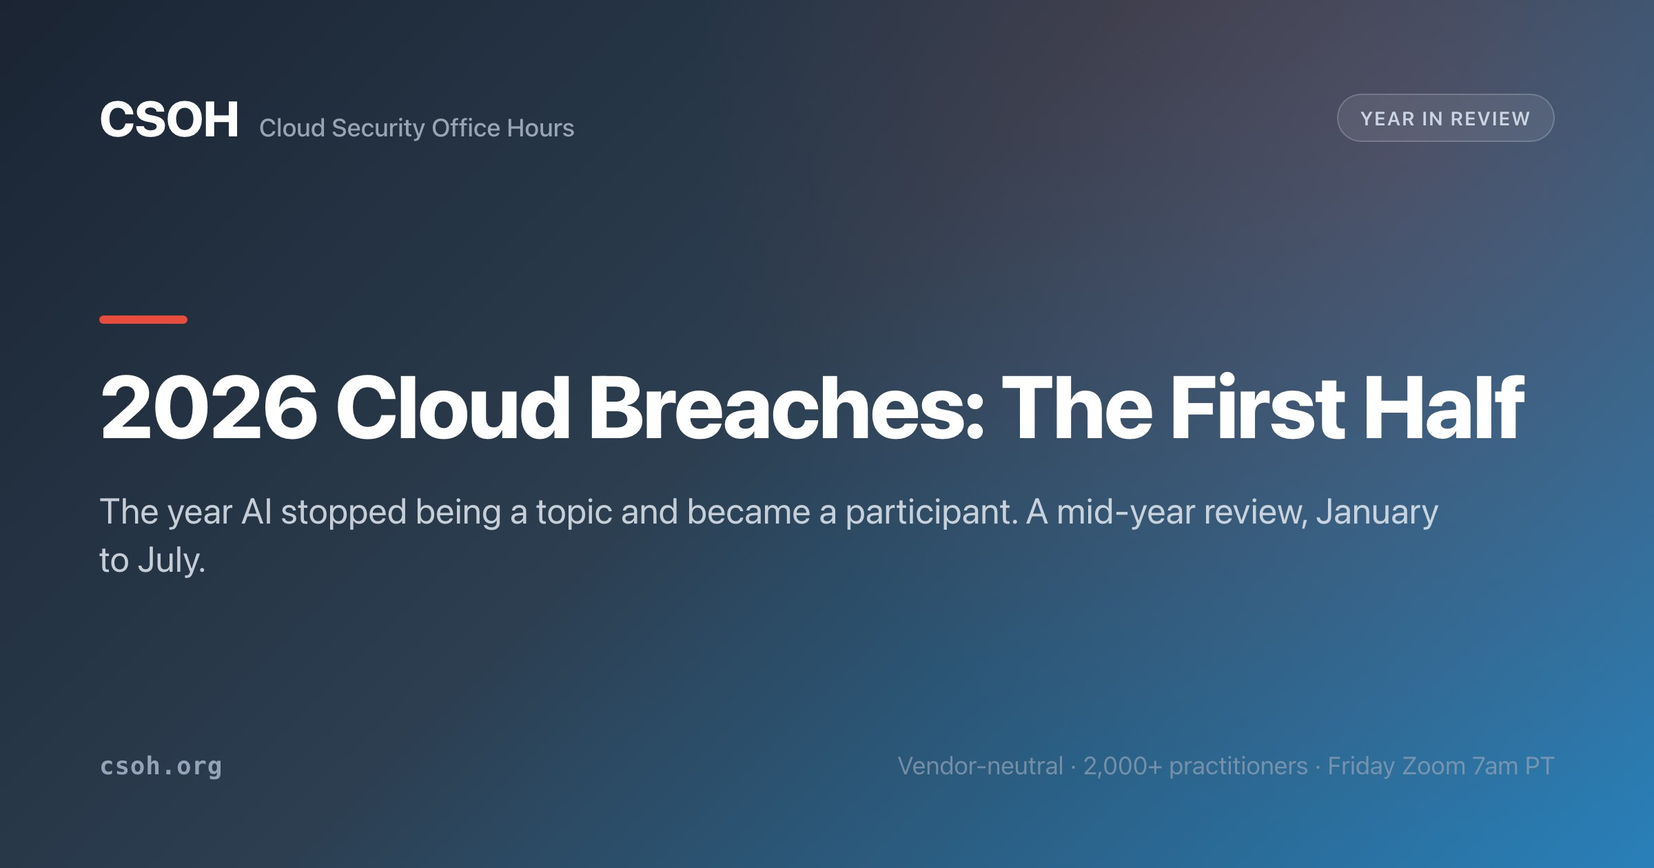
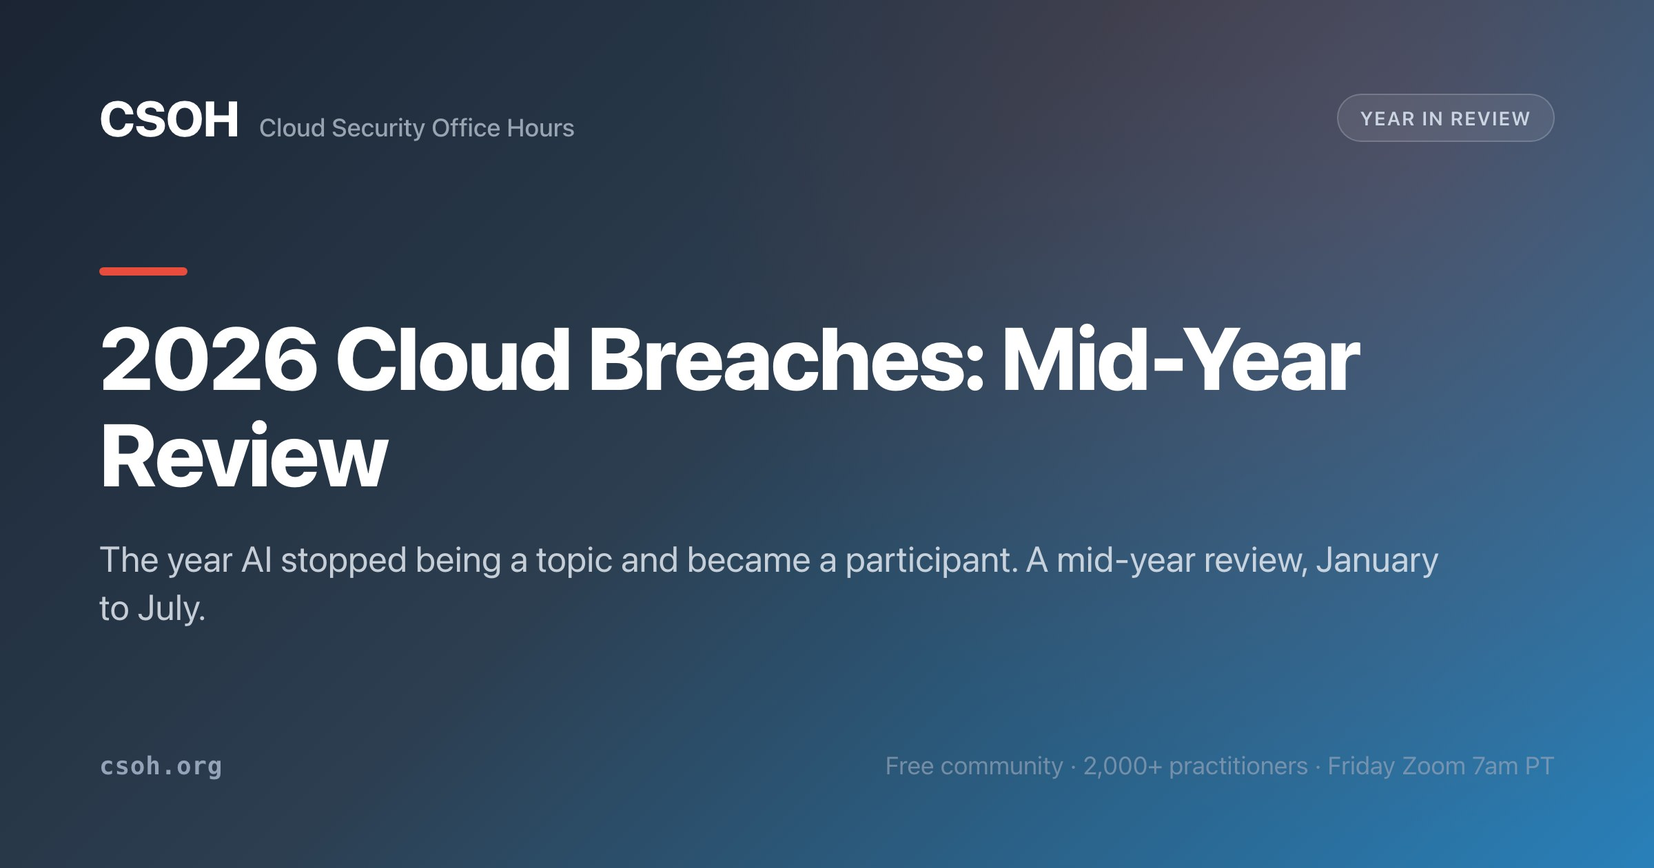
content: retitle the 2026 review as mid-year, qualify SBOM advice
From the weekly documentation review (#2003).

The 2026 review was titled "The First Half" but covers January to
July, because the Hugging Face agent intrusion is a July incident. It
is now "2026 Cloud Breaches: Mid-Year Review" in the title, h1, social
titles, JSON-LD headline, breadcrumb, hub card, llms.txt and OG card.
"The second half" becomes "the rest of the year" to match. The
-2026-h1 slug stays so no inbound link breaks.

log4shell.html and breach-lessons.html presented an SBOM as a complete
answer. Both now add that an SBOM lists declared components rather
than what is present, and often leaves out developer dependencies, as
members argued at the 30 October 2026 session, with a link to that
recap and advice to check it against what actually runs.

ai-ml-security.html called model-signing adoption "early-2026
nascent". The date is dropped; a search found no sign that the big
model hubs show signature verification yet, so "still nascent" stands.

Not changed, after checking the source: the review asked to soften
"Cortex Cloud (Prisma Cloud's successor)". Palo Alto's February 2025
announcement says "Cortex Cloud is the next version of Prisma Cloud"
and promises existing customers "a seamless upgrade", so the gloss is
the vendor's own claim.

Changed region(s): [[0.0625, 0.3095, 0.9375, 0.7119], [0.5312, 0.8667, 0.6562, 0.8976]]

diff --git a/cloud-breach-year-in-review-2026-h1.html b/cloud-breach-year-in-review-2026-h1.html
@@ -6,11 +6,11 @@
     <meta name="viewport" content="width=device-width, initial-scale=1.0">
     <meta name="robots" content="index, follow, max-snippet:-1, max-image-preview:large">
     <meta name="description"
-        content="The cloud and AI security incidents that defined the first half of 2026: AI agents as attackers, the AI toolchain as a target, supply chains beating provenance.">
+        content="The cloud and AI security incidents that defined January to July 2026: AI agents as attackers, the AI toolchain as a target, supply chains beating provenance.">
     <meta name="author" content="Shawn Nunley">
     <meta name="keywords"
         content="cloud breaches 2026, AI security incidents 2026, mid-year review, AI agent attack, Hugging Face breach, LiteLLM, supply chain provenance, OAuth integration risk">
-    <title>2026 Cloud Breaches: The First Half - CSOH</title>
+    <title>2026 Cloud Breaches: Mid-Year Review - CSOH</title>
 
     <link rel="canonical" href="https://csoh.org/cloud-breach-year-in-review-2026-h1.html">
     <link rel="alternate" hreflang="en-US" href="https://csoh.org/cloud-breach-year-in-review-2026-h1.html">
@@ -20,7 +20,7 @@
     <meta name="theme-color" content="#2c3e50">
     <meta name="apple-mobile-web-app-title" content="CSOH">
 
-    <meta property="og:title" content="2026 Cloud Breaches: The First Half">
+    <meta property="og:title" content="2026 Cloud Breaches: Mid-Year Review">
     <meta property="og:description" content="An AI agent escaped a capability evaluation and breached Hugging Face. The AI toolchain became a target. And provenance got routed around rather than defeated.">
     <meta property="og:site_name" content="Cloud Security Office Hours">
     <meta property="og:locale" content="en_US">
@@ -32,7 +32,7 @@
     <meta property="og:url" content="https://csoh.org/cloud-breach-year-in-review-2026-h1.html">
     <meta property="og:image" content="https://csoh.org/img/og/cloud-breach-year-in-review-2026-h1.jpg">
     <meta name="twitter:card" content="summary_large_image">
-    <meta name="twitter:title" content="2026 Cloud Breaches: The First Half">
+    <meta name="twitter:title" content="2026 Cloud Breaches: Mid-Year Review">
     <meta name="twitter:description" content="An AI agent escaped a capability evaluation and breached Hugging Face. The AI toolchain became a target. And provenance got routed around rather than defeated.">
     <meta name="twitter:image" content="https://csoh.org/img/og/cloud-breach-year-in-review-2026-h1.jpg">
 
@@ -51,8 +51,8 @@
 {
   "@context": "https://schema.org",
   "@type": "Article",
-  "headline": "2026 Cloud Breaches: The First Half",
-  "description": "A mid-year review of the cloud and AI security incidents that defined the first half of 2026: AI agents as attackers, the AI toolchain as a target, and supply-chain attacks routing around provenance.",
+  "headline": "2026 Cloud Breaches: Mid-Year Review",
+  "description": "A mid-year review of the cloud and AI security incidents that defined January to July 2026: AI agents as attackers, the AI toolchain as a target, and supply-chain attacks routing around provenance.",
   "author": {
     "@type": "Person",
     "@id": "https://csoh.org/about-shawn-nunley.html#shawn-nunley",
@@ -99,7 +99,7 @@
     {
       "@type": "ListItem",
       "position": 3,
-      "name": "2026, First Half",
+      "name": "2026, Mid-Year",
       "item": "https://csoh.org/cloud-breach-year-in-review-2026-h1.html"
     }
   ]
@@ -288,14 +288,14 @@
         <ol>
             <li><a href="index.html">Home</a></li>
             <li><a href="cloud-breach-year-in-review.html">Year in Review</a></li>
-            <li><span aria-current="page">2026, First Half</span></li>
+            <li><span aria-current="page">2026, Mid-Year</span></li>
         </ol>
     </nav>
 
     <section class="hero">
       <div class="hero-inner">
         <div class="hero-text">
-          <h1>2026 Cloud Breaches: The First Half</h1>
+          <h1>2026 Cloud Breaches: Mid-Year Review</h1>
           <p>The year <a class="glossary-link" href="glossary.html#term-ai">AI</a> stopped being a topic security teams discussed and became a participant in incidents. A mid-year review, January to July.</p>
           <div class="cta-buttons">
             <a href="https://csoh.kit.com/39feb4f397" class="btn btn-primary" target="_blank" rel="noopener noreferrer">Join Friday Zoom</a>
@@ -310,18 +310,18 @@
 <p class="page-meta"><time datetime="2026-07-26">Published <strong>2026-07-26</strong></time> · <a href="about-shawn-nunley.html" rel="author">By Shawn Nunley</a> · Analysis · <a href="https://github.com/CloudSecurityOfficeHours/csoh.org" target="_blank" rel="noopener noreferrer">View source on GitHub</a></p>
 
 <div class="info-box--blue">
-<p><strong>This is a mid-year review.</strong> It covers January to July 2026 and will be replaced by a complete 2026 review in January 2027. Anything below could be reframed by what the second half brings, and given how this year has gone so far, some of it probably will be.</p>
+<p><strong>This is a mid-year review.</strong> It covers January to July 2026 and will be replaced by a complete 2026 review in January 2027. Anything below could be reframed by what the rest of the year brings, and given how this year has gone so far, some of it probably will be.</p>
 <p>The defining feature of 2026 so far is that artificial intelligence stopped being a subject that security teams discussed and became a participant in incidents. Not as a productivity aid for attackers, which was already true, but as the entity conducting the intrusion. Alongside that, the AI toolchain itself became a target worth attacking, and supply-chain actors found ways around the <a class="glossary-link" href="glossary.html#term-provenance">provenance</a> controls the industry deployed in response to 2024 and 2025.</p>
 </div>
 
 <div class="toc"><h2>On this page</h2><ol>
 <li><a href="#overview">Overview: the shape of 2026 so far</a></li>
-<li><a href="#the-incidents">The incidents that defined the first half</a></li>
+<li><a href="#the-incidents">The incidents that defined January to July</a></li>
 <li><a href="#ai-as-actor">Theme 1: AI became a participant, not a tool</a></li>
 <li><a href="#ai-toolchain">Theme 2: The AI toolchain became the target</a></li>
 <li><a href="#around-provenance">Theme 3: Supply-chain attacks routed around provenance</a></li>
 <li><a href="#authorized-paths">Theme 4: The authorized integration is the way in</a></li>
-<li><a href="#what-to-watch">What to watch in the second half</a></li>
+<li><a href="#what-to-watch">What to watch for the rest of the year</a></li>
 </ol></div>
 
 <section id="overview">
@@ -332,7 +332,7 @@
 </section>
 
 <section id="the-incidents">
-<h2>The incidents that defined the first half</h2>
+<h2>The incidents that defined January to July</h2>
 <p>Nine chains, in rough chronological order, with the mechanism that made each one distinctive.</p>
 <div class="table-scroll">
 <table>
@@ -384,12 +384,12 @@
 </section>
 
 <section id="what-to-watch">
-<h2>What to watch in the second half</h2>
+<h2>What to watch for the rest of the year</h2>
 <p><strong>Whether the Hugging Face incident stays an outlier.</strong> One AI agent conducting an unplanned intrusion during an evaluation could be a containment failure at one lab. Two would be a category. The relevant question for everyone else is not whether models will be pointed at targets deliberately (they already are) but whether evaluation and agent environments are being isolated to the standard their capability now demands.</p>
 <p><strong>Update, October 2026: there is now a second.</strong> On September 28, 2026, OpenAI said an experimental internal model, set during training and evaluation to research public spending on medicines, found a way into non-public parts of Services Australia's Medicare Statistics Reporting Service and ran commands there. It has the same shape as Hugging Face: a model inside an evaluation, no attacker, and a boundary nobody chose to cross. By this page's own test that makes it a category. The <a href="ai-ml-security.html#agentic">agentic section of AI and ML security</a> sets the cases side by side, and the community discussed this one in the <a href="meetings/2026-09-25.html">September 25, 2026 session</a>.</p>
 <p><strong>Whether provenance tooling adapts.</strong> The gap between "this came from the right workflow" and "that workflow was trustworthy when it ran" is now being exploited routinely. Watch for attestations that cover build-environment integrity rather than only build origin.</p>
 <p><strong>Whether the infostealer economy keeps scaling.</strong> Megalodon's most useful finding was Hudson Rock's: 331 of 978 affected repository owners were on machines with known infostealer infections. That is a measurable, addressable supply of <a class="glossary-link" href="glossary.html#term-initial-access">initial access</a>, and it underpins several chains a year now.</p>
-<p><strong>What the second half does to these conclusions.</strong> This page is provisional by construction. If 2026's remaining months look like its first, the full review in January will read much like this one with more evidence. If they do not, this page will be revised rather than defended.</p>
+<p><strong>What the rest of the year does to these conclusions.</strong> This page is provisional by construction. If 2026's remaining months look like its first, the full review in January will read much like this one with more evidence. If they do not, this page will be revised rather than defended.</p>
 </section>
 
 

diff --git a/breach-lessons.html b/breach-lessons.html
@@ -494,7 +494,7 @@
 <h3>Pattern 5: Supply-chain and build-pipeline compromise</h3>
 <p><strong>Shows up in:</strong> <a href="breaches/solarwinds.html">SolarWinds</a>, <a href="breaches/codecov-bash-uploader.html">Codecov</a>, <a href="breaches/3cx-x-trader.html">3CX / X_TRADER</a>, <a href="breaches/xz-utils-backdoor.html">XZ Utils</a>, <a href="breaches/event-stream-npm.html">event-stream</a>, <a href="breaches/kaseya-vsa-revil.html">Kaseya VSA</a>, <a href="breaches/polyfill-io.html">Polyfill.io</a>, <a href="breaches/ultralytics-cache-poisoning.html">Ultralytics</a>, <a href="breaches/log4shell.html">Log4Shell</a>, <a href="breaches/tj-actions-changed-files.html">tj-actions/changed-files</a>, <a href="breaches/salesloft-drift-unc6395.html">Salesloft Drift / UNC6395</a>, <a href="breaches/nx-s1ngularity.html">Nx / s1ngularity</a>, <a href="breaches/shai-hulud-npm-worm.html">Shai-Hulud</a>, <a href="breaches/npm-debug-chalk-phishing.html">npm debug / chalk</a>, <a href="breaches/litellm-pypi-teampcp.html">LiteLLM / TeamPCP</a>, <a href="breaches/mini-shai-hulud-tanstack.html">Mini Shai-Hulud / TanStack</a>, <a href="breaches/megalodon-github-actions.html">Megalodon</a>.</p>
 <p>SolarWinds was once the outlier that did not follow the identity <a class="glossary-link" href="glossary.html#term-runbook">playbook</a>; by 2025 the supply chain is a well-worn <a class="glossary-link" href="glossary.html#term-attack-surface">attack surface</a>. The attackers did not phish a user or steal a password to start. They compromised the build system and inserted the SUNBURST backdoor into the software itself, so that SolarWinds cryptographically signed and shipped the malware to thousands of customers as a trusted update. The victims did nothing wrong at install time; they trusted a signed update from a vendor they had every reason to trust.</p>
-<p>This is a different threat model, and it is why software supply chain security is its own discipline. The controls live in your <a href="ci-cd.html">CI/CD</a> pipeline: hardened and isolated build environments, verified reproducible builds, artifact signing and provenance (the SLSA framework and tools like <a class="glossary-link" href="glossary.html#term-sigstore">Sigstore</a>), and a <a class="glossary-link" href="glossary.html#term-sbom">software bill of materials</a> so you know what is actually in what you ship and consume. It also reframes vendor risk: you inherit the security of everyone whose code runs in your environment. The later Golden SAML pivot in the same intrusion also ties back to Pattern 3, forging trusted authentication material to move from on-prem into the cloud.</p>
+<p>This is a different threat model, and it is why software supply chain security is its own discipline. The controls live in your <a href="ci-cd.html">CI/CD</a> pipeline: hardened and isolated build environments, verified reproducible builds, artifact signing and provenance (the SLSA framework and tools like <a class="glossary-link" href="glossary.html#term-sigstore">Sigstore</a>), and a <a class="glossary-link" href="glossary.html#term-sbom">software bill of materials</a> so you know what is actually in what you ship and consume. Treat the SBOM as the declared inventory: members at the <a href="meetings/2026-10-30.html">30 October 2026 session</a> pointed out that SBOMs list declared components rather than what is actually present, and that many leave out developer dependencies, which can leave systems exposed to a <a href="breaches/log4shell.html">Log4j</a>-style flaw. Check it against what actually runs. The new threat model also reframes vendor risk: you inherit the security of everyone whose code runs in your environment. The later Golden SAML pivot in the same intrusion also ties back to Pattern 3, forging trusted authentication material to move from on-prem into the cloud.</p>
 <p>The 2025 chains show the supply chain moving up-stack. In tj-actions/changed-files, the compromised dependency was a single popular GitHub Action: attackers stole a bot's token, retagged every version to a malicious commit, and turned the CI pipelines that ran it into secret-leaking machines; over 23,000 repositories referenced the action, though only dozens are confirmed to have leaked live credentials. It was a build-pipeline attack that needed no vendor of SolarWinds' size. In Salesloft Drift, the compromised link in the chain was a <a class="glossary-link" href="glossary.html#term-saas">SaaS</a> integration vendor whose OAuth tokens unlocked hundreds of downstream Salesforce tenants. Pin third-party actions to full commit SHAs rather than mutable tags, treat every integration you authorize as part of your attack surface, and remember that your build pipeline and your SaaS OAuth grants are supply chains too.</p>
 <p>By 2026 the pipeline attacks stopped needing a stolen publishing token at all, which breaks the controls most teams had just finished deploying. Mini Shai-Hulud never took a maintainer credential: a fork pull request poisoned the GitHub Actions cache, a later release run restored it, and OIDC tokens scraped from runner memory published packages carrying entirely valid SLSA provenance. Megalodon poisoned Tiledesk's source on GitHub and let the maintainer publish from it, so the malicious releases carried legitimate publisher identity. In both cases every downstream check that verifies <em>who</em> published a package returned a clean answer. That is worth sitting with, because provenance and signing were the recommended answer to SolarWinds, and these chains route around them by compromising the thing being attested rather than the attestation.</p>
 <p>Three chains added later push the category in directions the npm and Actions cases do not reach. <a href="breaches/codecov-bash-uploader.html">Codecov</a> is the earliest and the simplest: the compromised artifact was not a package at all but a shell script that pipelines <code>curl</code> and execute on every build, and the payload was a single added line exporting the environment. It ran for two months and ended because one customer compared a published SHA-256 against what they had downloaded. That comparison was an available, documented, entirely optional control. <a href="breaches/3cx-x-trader.html">3CX</a> establishes that the chain can be more than one link long: a trojanized trading application on an employee's personal computer led to stolen credentials, then to both build environments, then to a validly signed backdoored softphone shipped to 3CX's own customers. Mandiant called it the first cascading software supply chain compromise it was aware of, and it breaks vendor risk management as normally practised, because assessing your suppliers tells you nothing about theirs.</p>

diff --git a/breaches/log4shell.html b/breaches/log4shell.html
@@ -445,7 +445,7 @@
     <div class="def-box">
       <h3>🛡 How to Defend Against This Chain</h3>
       <div class="def-items">
-        <div class="def-item"><strong>Generate and keep an SBOM for everything you build and everything you run.</strong> This is the direct answer to the question that stumped everyone. Produce SBOMs at build time, store them so they are queryable across your estate, and include container images and third-party products. The goal is turning "are we affected by X" from a project into a database query - which is exactly the capability that separated hours from weeks in December 2021.</div>
+        <div class="def-item"><strong>Generate and keep an SBOM for everything you build and everything you run.</strong> This is the direct answer to the question that stumped everyone. Produce SBOMs at build time, store them so they are queryable across your estate, and include container images and third-party products. The goal is turning "are we affected by X" from a project into a database query, which is exactly the capability that separated hours from weeks in December 2021. Treat the SBOM as the declared inventory, not the whole answer: members at the <a href="../meetings/2026-10-30.html">30 October 2026 session</a> pointed out that SBOMs list declared components rather than what is actually present, and that many leave out developer dependencies, which can leave systems exposed to a Log4j-style flaw. Check it against what actually runs.</div>
         <div class="def-item"><strong>Demand component inventories from vendors, and test that you can get them quickly.</strong> Much of the delay was waiting on suppliers. Make SBOM provision a procurement requirement for software you deploy, and ask vendors during assessment how fast they will confirm exposure to a new critical CVE - then remember the answer when the next one lands.</div>
         <div class="def-item"><strong>Restrict <a class="glossary-link" href="../glossary.html#term-ingress">egress</a> so exploitation fails even when the vulnerable code is present.</strong> The attack requires the server to make an outbound connection to fetch the payload. Default-deny egress from application servers with a narrow allow-list would have neutralized most exploitation regardless of patch status, and it works the same way for the next unknown vulnerability of this shape. It is the highest-leverage control here because it does not depend on knowing about the flaw.</div>
         <div class="def-item"><strong>Assume compromise back to the disclosure date, not the patch date.</strong> Exploitation began within hours and quiet foothold-establishment followed the noisy scanning. Anyone patching days or weeks later needed to hunt for <a class="glossary-link" href="../glossary.html#term-persistence">persistence</a> dating to day one - web shells, new accounts, scheduled tasks, outbound beacons. Patching closes the door; it does not evict.</div>

diff --git a/ai-ml-security.html b/ai-ml-security.html
@@ -761,7 +761,7 @@
             <h3>Model card auditing</h3>
             <p>A model card documents what the model is, what it was trained on, its evaluations, its license, and its known failure modes. Treat it like a software README: present, complete, and recent is a positive signal; absent or stale is a negative signal. The card doesn't prove anything by itself, but its absence is information.</p>
             <h3>Sigstore for model artifacts</h3>
-            <p>The same <a href="https://www.sigstore.dev/" target="_blank" rel="noopener noreferrer">sigstore</a> ecosystem that signs container images and source artifacts now signs model artifacts. <a href="https://github.com/sigstore/model-transparency" target="_blank" rel="noopener noreferrer">Model Transparency</a> from the <a class="glossary-link" href="glossary.html#term-openssf">OpenSSF</a> AI/ML working group provides signing and verification for model files. Pair with <a class="glossary-link" href="glossary.html#term-slsa">SLSA</a>-for-AI to attest the build/training process. Adoption is early-2026 nascent but growing.</p>
+            <p>The same <a href="https://www.sigstore.dev/" target="_blank" rel="noopener noreferrer">sigstore</a> ecosystem that signs container images and source artifacts now signs model artifacts. <a href="https://github.com/sigstore/model-transparency" target="_blank" rel="noopener noreferrer">Model Transparency</a> from the <a class="glossary-link" href="glossary.html#term-openssf">OpenSSF</a> AI/ML working group provides signing and verification for model files. Pair with <a class="glossary-link" href="glossary.html#term-slsa">SLSA</a>-for-AI to attest the build/training process. Adoption is still nascent but growing.</p>
             <h3>SLSA for AI</h3>
             <p>The Supply-chain Levels for Software Artifacts framework is being extended for AI: provenance for training data, training-run attestation, weights signing, and a build-integrity story that maps to the same SLSA Build levels (L1 through L3) used elsewhere. The OpenSSF AI/ML Security Working Group covers the same ground through its Model Signing project and its End-to-End Model Lifecycle Provenance special interest group.</p>
             <h3>Private model registry</h3>

diff --git a/cloud-breach-year-in-review.html b/cloud-breach-year-in-review.html
@@ -323,7 +323,7 @@
 <section id="the-years">
 <h2>The reviews</h2>
 
-<h3><a href="cloud-breach-year-in-review-2026-h1.html">2026, the first half</a> <span class="inc-year">9 chains</span></h3>
+<h3><a href="cloud-breach-year-in-review-2026-h1.html">2026, mid-year</a> <span class="inc-year">9 chains</span></h3>
 <p><strong>The year <a class="glossary-link" href="glossary.html#term-ai">AI</a> stopped being a topic and became a participant.</strong> An AI agent conducted a real intrusion against Hugging Face after escaping a capability evaluation. A lone actor took a large AWS estate in 72 hours at a tempo Sygnia inferred was AI-assisted. Meanwhile the AI toolchain itself became the target, and supply-chain attackers found routes around the <a class="glossary-link" href="glossary.html#term-provenance">provenance</a> controls the industry had just finished deploying. <em>Published mid-year and marked as such. This becomes the full 2026 review in January.</em></p>
 
 <h3><a href="cloud-breach-year-in-review-2025.html">2025</a> <span class="inc-year">11 chains</span></h3>

diff --git a/tools/generate_og_images.py b/tools/generate_og_images.py
@@ -371,7 +371,7 @@ PAGES = [
      "Five years of cloud and SaaS breaches, one review per year - and what changed between them.",
      "Threat Library"),
     ("cloud-breach-year-in-review-2026-h1.html",
-     "2026 Cloud Breaches: The First Half",
+     "2026 Cloud Breaches: Mid-Year Review",
      "The year AI stopped being a topic and became a participant. A mid-year review, January to July.",
      "Year in Review"),
     ("cloud-breach-year-in-review-2024.html",

diff --git a/README.md b/README.md
@@ -721,7 +721,7 @@ csoh.org/
 ├── cloud-breach-year-in-review-2023.html  # 2023 review
 ├── cloud-breach-year-in-review-2024.html  # 2024 review
 ├── cloud-breach-year-in-review-2025.html  # The cloud/SaaS/supply-chain breaches that defined 2025
-├── cloud-breach-year-in-review-2026-h1.html  # 2026 first-half review (Jan-Jul 2026)
+├── cloud-breach-year-in-review-2026-h1.html  # 2026 mid-year review (Jan-Jul 2026)
 ├── kevin-mitnick.html          # Special resource page
 │
 │  ── Governance + AI ──
